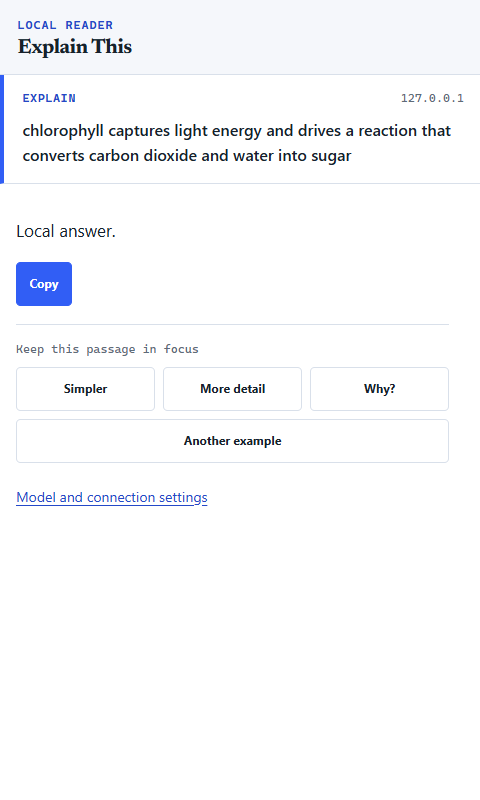
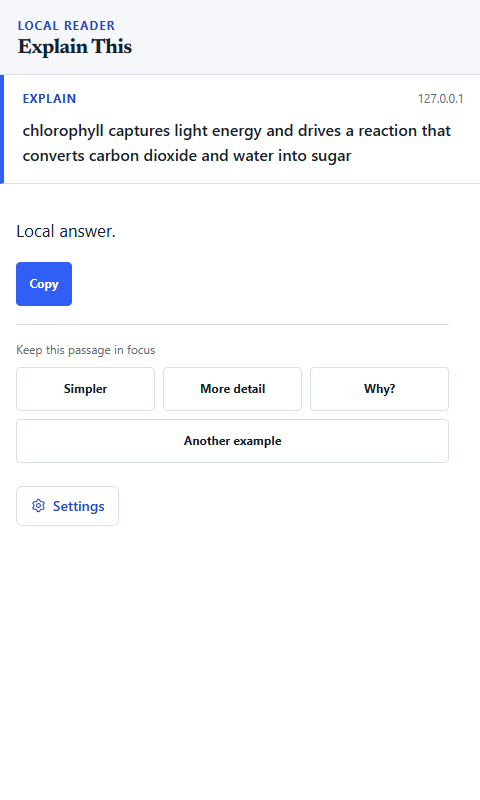
feat: give the side panel a Settings button and one typeface
The side panel had four rules on the same unbundled monospace stack the setup page
just shed: the kicker, the endpoint badge, the follow-up label, and code inside
model output. It now uses the same two bundled faces as setup - Inter for text,
Newsreader for display - and literal values keep their distinction through a tint
and Inter's slashed zero and ss02 alternates rather than a second family.

"Model and connection settings" was a link, so opening it navigated the panel away
from the explanation you were reading. It is now a Settings button that calls
openOptionsPage, which opens the options page as a tab and leaves the panel
intact. The panel is an extension page, so it can make that call directly rather
than routing through the background as the content script must.

The component takes an openSettings callback in place of the optionsUrl string,
which also removes the panel's need to know the options URL at all.

One thing the screenshot caught: the CSS rename from .diagnostics-link to
.settings-button never applied, because the script carrying it exited early on an
unrelated mismatch. The markup referenced a class that did not exist and the
button fell back to unstyled, which the passing tests had no way to notice.

Verified: npm run check exits 0 (556 tests), 22 Playwright tests pass, and the
side-panel screenshot was regenerated.

diff --git a/src/entrypoints/sidepanel/SidePanelApp.tsx b/src/entrypoints/sidepanel/SidePanelApp.tsx
@@ -1,5 +1,6 @@
 import { useEffect, useSyncExternalStore } from "react";
 import type { FollowUpIntent, ReadingAction } from "../../core/requests/types";
+import { Settings } from "lucide-react";
 import { PublicErrorNotice } from "../../components/PublicErrorNotice";
 import { SafeMarkdown } from "../../components/SafeMarkdown";
 import type { SidePanelController } from "../../features/reader/sidepanel-controller";
@@ -7,7 +8,7 @@ import type { SidePanelController } from "../../features/reader/sidepanel-contro
 export interface SidePanelAppProps {
   controller: SidePanelController;
   copyText(text: string): Promise<void>;
-  optionsUrl: string;
+  openSettings(): void;
 }
 
 const actionLabels: Record<ReadingAction, string> = {
@@ -24,7 +25,11 @@ const followUps: ReadonlyArray<{ intent: FollowUpIntent; label: string }> = [
   { intent: "another-example", label: "Another example" },
 ];
 
-export function SidePanelApp({ controller, copyText, optionsUrl }: SidePanelAppProps) {
+export function SidePanelApp({
+  controller,
+  copyText,
+  openSettings,
+}: SidePanelAppProps) {
   const state = useSyncExternalStore(controller.subscribe, controller.getSnapshot);
 
   useEffect(() => {
@@ -58,9 +63,10 @@ export function SidePanelApp({ controller, copyText, optionsUrl }: SidePanelAppP
             menu, or keyboard shortcut.
           </p>
         </section>
-        <a className="diagnostics-link" href={optionsUrl}>
-          Model and connection settings
-        </a>
+        <button className="settings-button" type="button" onClick={openSettings}>
+          <Settings size={15} strokeWidth={1.8} aria-hidden="true" focusable="false" />
+          Settings
+        </button>
       </main>
     );
   }
@@ -142,9 +148,10 @@ export function SidePanelApp({ controller, copyText, optionsUrl }: SidePanelAppP
           </div>
         ) : null}
 
-        <a className="diagnostics-link" href={optionsUrl}>
-          Model and connection settings
-        </a>
+        <button className="settings-button" type="button" onClick={openSettings}>
+          <Settings size={15} strokeWidth={1.8} aria-hidden="true" focusable="false" />
+          Settings
+        </button>
       </section>
     </main>
   );

diff --git a/src/entrypoints/sidepanel/SidePanelApp.test.tsx b/src/entrypoints/sidepanel/SidePanelApp.test.tsx
@@ -76,19 +76,30 @@ class TestController implements SidePanelController {
 function renderPanel(state: SidePanelState) {
   const controller = new TestController(state);
   const copyText = vi.fn<(text: string) => Promise<void>>().mockResolvedValue();
+  const openSettings = vi.fn();
   const result = render(
     <SidePanelApp
       controller={controller}
       copyText={copyText}
-      optionsUrl="chrome-extension://extension-id/options.html"
+      openSettings={openSettings}
     />,
   );
-  return { controller, copyText, ...result };
+  return { controller, copyText, openSettings, ...result };
 }
 
 afterEach(cleanup);
 
 describe("focused explanation side panel", () => {
+  // A link navigated the panel itself away from the current explanation.
+  it("opens settings from a button without navigating the panel", async () => {
+    const { openSettings } = renderPanel({ status: "session", session: session() });
+
+    await userEvent.click(screen.getByRole("button", { name: "Settings" }));
+
+    expect(openSettings).toHaveBeenCalledOnce();
+    expect(screen.queryByRole("link", { name: /settings/i })).not.toBeInTheDocument();
+  });
+
   it("renders the current selection, context, safe Markdown, copy, and diagnostics", async () => {
     const { controller, copyText } = renderPanel({
       status: "session",
@@ -103,9 +114,7 @@ describe("focused explanation side panel", () => {
     expect(document.querySelector("a[href='https://tracker.example']")).toBeNull();
     expect(document.querySelector("img")).toBeNull();
     expect(document.querySelector("script")).toBeNull();
-    expect(
-      screen.getByRole("link", { name: /model and connection settings/i }),
-    ).toHaveAttribute("href", "chrome-extension://extension-id/options.html");
+    expect(screen.getByRole("button", { name: "Settings" })).toBeVisible();
 
     await userEvent.click(screen.getByRole("button", { name: "Copy" }));
     expect(copyText).toHaveBeenCalledWith(session().answer);

diff --git a/src/entrypoints/sidepanel/sidepanel.css b/src/entrypoints/sidepanel/sidepanel.css
@@ -66,7 +66,6 @@
   --text-label: 0.75rem;
   --control-height: 40px;
   --field-height: 44px;
-  --mono: "Cascadia Mono", "SFMono-Regular", Consolas, ui-monospace, monospace;
   color: var(--ink);
   background: var(--cloud);
   font-family: var(--body);
@@ -135,7 +134,6 @@ button:hover {
 .panel-kicker {
   margin: 0 0 0.18rem;
   color: var(--cobalt-dark);
-  font-family: var(--mono);
   font-size: var(--text-label);
   font-weight: 700;
   letter-spacing: 0.08em;
@@ -170,7 +168,10 @@ h1 {
   justify-content: space-between;
   gap: 0.75rem;
   color: var(--slate);
-  font-family: var(--mono);
+  font-variant-numeric: slashed-zero tabular-nums;
+  font-feature-settings:
+    "zero" 1,
+    "ss02" 1;
   font-size: var(--text-label);
 }
 
@@ -204,7 +205,6 @@ blockquote {
 .follow-up-region > p {
   margin: 0.55rem 0 0;
   color: var(--slate);
-  font-family: var(--mono);
   font-size: var(--text-label);
 }
 
@@ -238,7 +238,12 @@ blockquote {
 
 .answer-copy pre,
 .answer-copy code {
-  font-family: var(--mono);
+  border-radius: 4px;
+  background: #eef2f9;
+  font-variant-numeric: slashed-zero tabular-nums;
+  font-feature-settings:
+    "zero" 1,
+    "ss02" 1;
   font-size: 0.88em;
 }
 
@@ -327,12 +332,25 @@ blockquote {
   text-transform: uppercase;
 }
 
-.diagnostics-link {
-  display: inline-block;
+.settings-button {
+  display: inline-flex;
+  align-items: center;
+  gap: 0.45rem;
+  min-height: 40px;
   margin-top: 1.4rem;
+  padding: 0 0.85rem;
+  border: 1px solid var(--line);
+  border-radius: 6px;
+  background: var(--paper);
   color: var(--cobalt-dark);
   font-size: var(--text-sm);
-  text-underline-offset: 0.2em;
+  font-weight: 600;
+  cursor: pointer;
+}
+
+.settings-button:hover {
+  border-color: var(--cobalt);
+  background: #f2f6ff;
 }
 
 .sidepanel-empty,
@@ -371,7 +389,7 @@ blockquote {
   color: var(--slate);
 }
 
-.sidepanel-empty > .diagnostics-link {
+.sidepanel-empty > .settings-button {
   margin: 0 1.25rem 1.5rem;
 }
 

diff --git a/src/entrypoints/sidepanel/main.tsx b/src/entrypoints/sidepanel/main.tsx
@@ -51,6 +51,6 @@ createRoot(root).render(
   <SidePanelApp
     controller={controller}
     copyText={(text) => navigator.clipboard.writeText(text)}
-    optionsUrl={browser.runtime.getURL("/options.html")}
+    openSettings={() => void browser.runtime.openOptionsPage()}
   />,
 );
